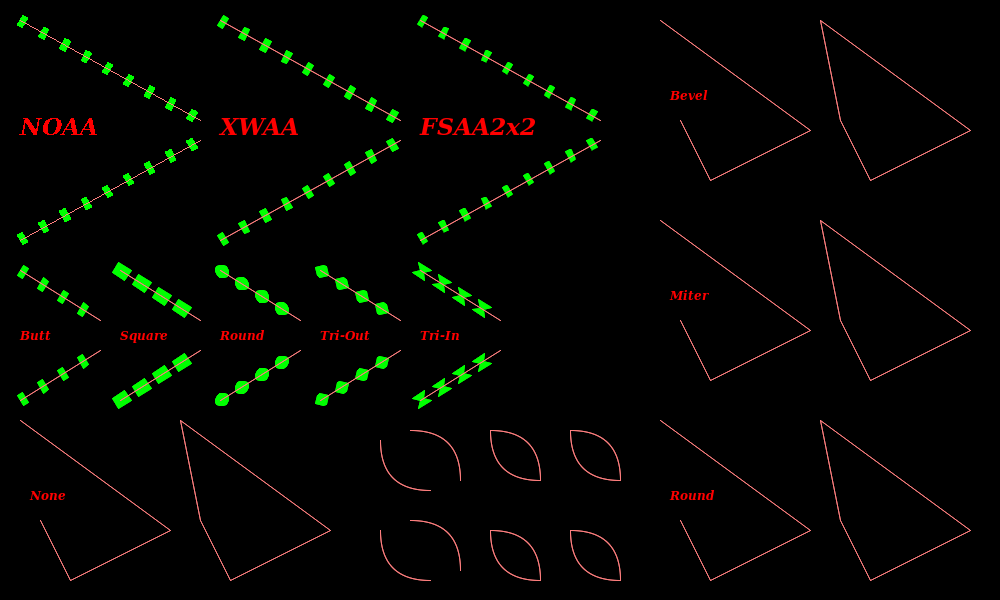
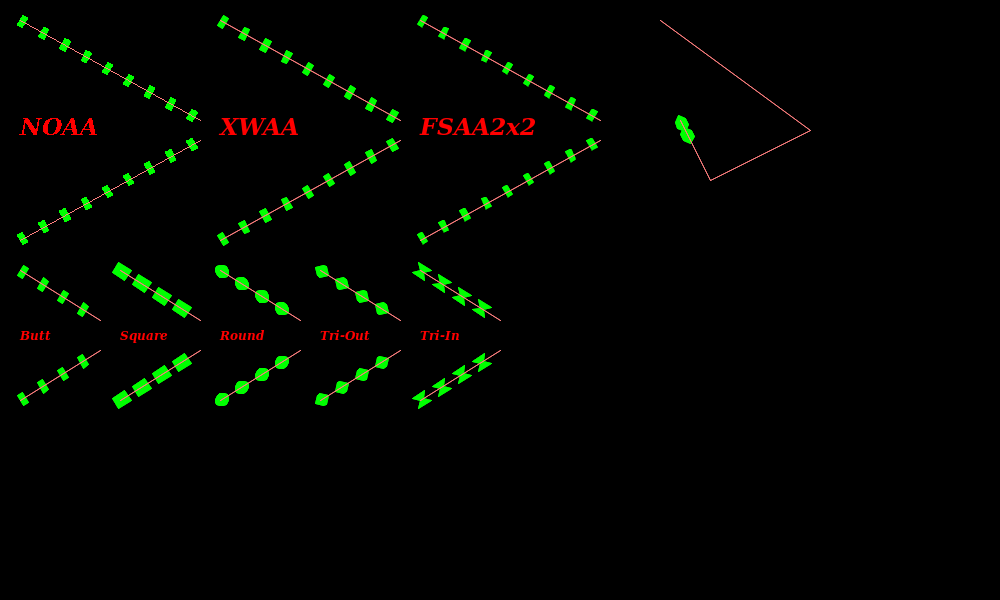
Working on thick polygon

diff --git a/src/Pt-Gfx/ImagePainter2.cpp b/src/Pt-Gfx/ImagePainter2.cpp
@@ -1456,7 +1456,7 @@ bool ImagePainter2::thickenPatternedPolygon(std::vector<PointF>& pointsF, const 
         // Calculate the "pattern" segment length
         Pt::uint8_t refPat = pBuff[piCtrInOut];
         float       segLen = cellSize;
-        while(true) {
+        for(;;) {
             // Update the pattern indexing counter
             ++piCtrInOut;
             if(piCtrInOut >= PATTERN_BUFFER_COUNTER_MAXMP) piCtrInOut -= PATTERN_BUFFER_COUNTER_MAXMP;
@@ -1472,21 +1472,7 @@ bool ImagePainter2::thickenPatternedPolygon(std::vector<PointF>& pointsF, const 
         // Process the "pattern" segment
         state.patSegLen = segLen;
         //lprintf("Cell size = %5.1f %5.1f\n", segLen, cellSize);
-
-        while(sagPolygonPoints(state)) {
-            done = (state.idx2 >= state.srcCount);
-            if(done) break;
-        }
-        done = (state.idx2 >= state.srcCount);
-
-        // Generate a real line segment as needed
-        if(!refPat || state.gather.size() < 2) continue;
-
-        if(state.gather.size() == 2) {
-        }
-        else {
-        }
-
+        done = sagPolygonPoints(state, !!refPat);
     }
 
     // Done
@@ -1511,68 +1497,90 @@ bool ImagePainter2::thickenPatternedPolygon(std::vector<PointF>& pointsF, const 
 
     std::vector<PointF>  gather;    // Gathered polygon points
  */
-bool ImagePainter2::sagPolygonPoints(SAGOpState& state)
+bool ImagePainter2::sagPolygonPoints(SAGOpState& state, bool draw)
 {
-    // (Re-)initialize some part of the operational state as needed
-    if(state.lvLength <= 0.0f) {
-        // Calculate the vector, size, and coordinates
-        const float x1 = state.srcPoints[state.idx1].x();
-        const float y1 = state.srcPoints[state.idx1].y();
-        const float x2 = state.srcPoints[state.idx2].x();
-        const float y2 = state.srcPoints[state.idx2].y();
-        const float vx = x2 - x1;
-        const float vy = y2 - y1;
-        const float vz = Gfx::Math::fastSqrt(vx * vx + vy * vy);
-        state.lvLength =      vz;
-        state.uvx      = vx / vz;
-        state.uvy      = vy / vy;
-        state.cvx      = state.cellSize * state.uvx;
-        state.cvy      = state.cellSize * state.uvy;
-        state.px       = x1;
-        state.py       = y1;
-        state.mx       = x2;
-        state.my       = y2;
-        // Clear the "gather" buffer
-        state.gather.clear();
-    }
-
-    // Check if the "pattern" segment is shorter than the cell size
+    // Cannot draw anything if the "pattern" segment is shorter than the cell size
     if(state.patSegLen < state.cellSize) {
-        // ### TODO: Spread! ###
-        lprintf("1\n");
-        state.idx2 = state.srcCount;
-        return false;
+        return true;
     }
 
-    // Check if the "pattern" segment is longer than the length of the current polygon's edge
-    if(state.patSegLen > state.lvLength) {
-        // ### TODO: Gather! ###
-        lprintf("2\n");
-        state.idx2 = state.srcCount;
-        return false;
+    // Loop until the current "pattern" segment are completely processed
+    for(;;) {
+
+        // (Re-)initialize some part of the operational state as needed
+        if(state.lvLength <= 0.0f) {
+            // Calculate the vector, size, and coordinates
+            const float x1 = state.srcPoints[state.idx1].x();
+            const float y1 = state.srcPoints[state.idx1].y();
+            const float x2 = state.srcPoints[state.idx2].x();
+            const float y2 = state.srcPoints[state.idx2].y();
+            const float vx = x2 - x1;
+            const float vy = y2 - y1;
+            const float vz = Gfx::Math::fastSqrt(vx * vx + vy * vy);
+            state.lvLength =      vz;
+            state.uvx      = vx / vz;
+            state.uvy      = vy / vy;
+            state.cvx      = state.cellSize * state.uvx;
+            state.cvy      = state.cellSize * state.uvy;
+            state.px       = x1;
+            state.py       = y1;
+            state.mx       = x2;
+            state.my       = y2;
+            // Clear the "gather" buffer
+            state.gather.clear();
+        }
+
+
+        // Perform "gather" operation if the "pattern" segment is longer than the length of the current polygon's edge
+        if(state.patSegLen > state.lvLength) {
+            // ### TODO: Gather! ###
+            return true;
+        }
+
+        // Perform "spread" operation
+        // --- Generate a real line segment as needed --
+        if(draw) sagGenerateSimpleLineSegment(state, state.px, state.py, state.px + state.cvx, state.py + state.cvy);
+        // Update the state
+        state.lvLength -= state.patSegLen;
+        state.px       += state.cvx;
+        state.py       += state.cvy;
+        // Done for now
+        break;
     }
 
-    state.patSegLen -= state.cellSize;
-    state.px        += state.cvx;
-    state.py        += state.cvy;
+    // Indicate that the current "pattern" segment are completely processed,
+    // but there are still unprocessed polygon's points
+    return false;
+}
 
-// Normal operation
+void ImagePainter2::sagGenerateSimpleLineSegment(SAGOpState& state, float x1, float y1, float x2, float y2)
+{
+    // Calculate the line's parameters
+    float wh, dx, dy, nx, ny;
 
-    //if(state.lvSize < state.cellSize) {
-    //    return false;
-   // }
+    calculateLineParams(wh, dx, dy, nx, ny, x1, y1, x2, y2, _rasterizer->pen().size());
 
+    // Add polygon separator point as needed
+    if(!state.dstPoints.empty()) state.dstPoints.push_back(Painter::PolygonSeparatorPointF);
 
-
-    //state.px +=
-
-
-
-    static int i = 0;
-    ++i;
-    if (i % 0x03) state.idx2 = state.srcCount;
-
-    return true;
+    // Generate points (CCW)
+    // --- Begin point ---
+    switch(_rasterizer->pen().capStyle()) {
+        case Pen::SquareCap        : generateLineSquareCap       (state.dstPoints, x1, y1,     dx, dy, nx, ny); break;
+        case Pen::RoundCap         : generateLineRoundCap        (state.dstPoints, x1, y1, wh, dx, dy, nx, ny); break;
+        case Pen::TriangularOutCap : generateLineTriangularOutCap(state.dstPoints, x1, y1,     dx, dy, nx, ny); break;
+        case Pen::TriangularInCap  : generateLineTriangularInCap (state.dstPoints, x1, y1,     dx, dy, nx, ny); break;
+        default                    : generateLineButtCap         (state.dstPoints, x1, y1,             nx, ny); break;
+    }
+    // --- End point ---
+    switch(_rasterizer->pen().capStyle()) {
+        case Pen::SquareCap        : generateLineSquareCap       (state.dstPoints, x2, y2,     -dx, -dy, -nx, -ny); break;
+        case Pen::RoundCap         : generateLineRoundCap        (state.dstPoints, x2, y2, wh, -dx, -dy, -nx, -ny); break;
+        case Pen::TriangularOutCap : generateLineTriangularOutCap(state.dstPoints, x2, y2,     -dx, -dy, -nx, -ny); break;
+        case Pen::TriangularInCap  : generateLineTriangularInCap (state.dstPoints, x2, y2,     -dx, -dy, -nx, -ny); break;
+        default                    : generateLineButtCap         (state.dstPoints, x2, y2,               -nx, -ny); break;
+    }
+    lprintf("    Segment (%5.1f, %5.1f) - (%5.1f, %5.1f)\n", x1, y1, x2, y2);
 }
 
 

diff --git a/include/Pt/Gfx/ImagePainter2.h b/include/Pt/Gfx/ImagePainter2.h
@@ -150,7 +150,8 @@ class PT_GFX_API ImagePainter2 : public Painter
 
         void generatePatternedLineSegment(std::vector<PointF>& dst, float x1, float y1, float x2, float y2, Pt::int32_t& piCtrInOut);
         bool thickenPatternedPolygon(std::vector<PointF>& pointsF, const PointF* src, size_t pointCount);
-        bool sagPolygonPoints(SAGOpState& state);
+        bool sagPolygonPoints(SAGOpState& state, bool draw);
+        void sagGenerateSimpleLineSegment(SAGOpState& state, float x1, float y1, float x2, float y2);
 
     private:
         RectF           _clip;

diff --git a/src/Pt-Gfx/tests/ImagePainterTest2_Draw_Thick.cpp b/src/Pt-Gfx/tests/ImagePainterTest2_Draw_Thick.cpp
@@ -137,6 +137,11 @@ static void testDrawThickLine_impl(
         else painter.drawPolyline( poly1a, sizeof(poly1a) / sizeof(poly1a[0]) );
     }
 
+    painter.setFont( Pt::Gfx::Font(FONT_SPEC_N) );
+    sdlPreviewRGB888Buffer(title, image.data(), image.width(), image.height(), !!dynamic_cast<ImagePainter2*>(&painter));
+    return;
+
+
     painter.setPen(penOCapBJoin);
     const PointF poly1b[] = { // CCW
         PointF(670 + 170, 120),

diff --git a/src/Pt-Gfx/tests/ImagePainterTest2.cpp b/src/Pt-Gfx/tests/ImagePainterTest2.cpp
@@ -68,7 +68,7 @@ using namespace Pt::Gfx;
 
 // General settings for Pt-Gfx
 #define DO_TEST_DRAW    1
-#define DO_BENCHMARKING 1
+#define DO_BENCHMARKING 0
 
 // Detailed-test enable settings for Pt-Gfx
 #define TEST_SOURCECOPY                         1
